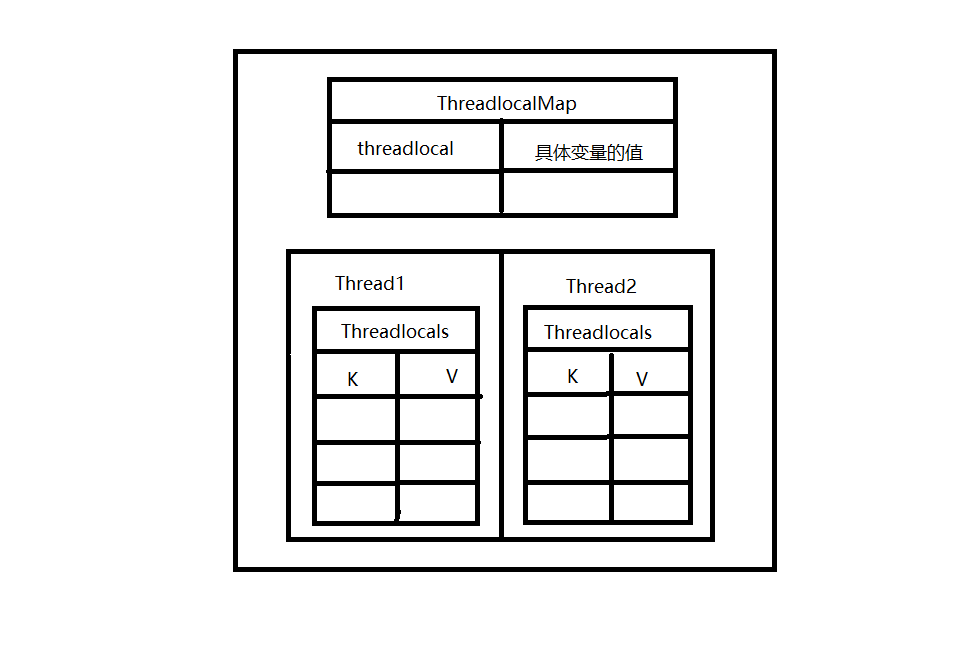
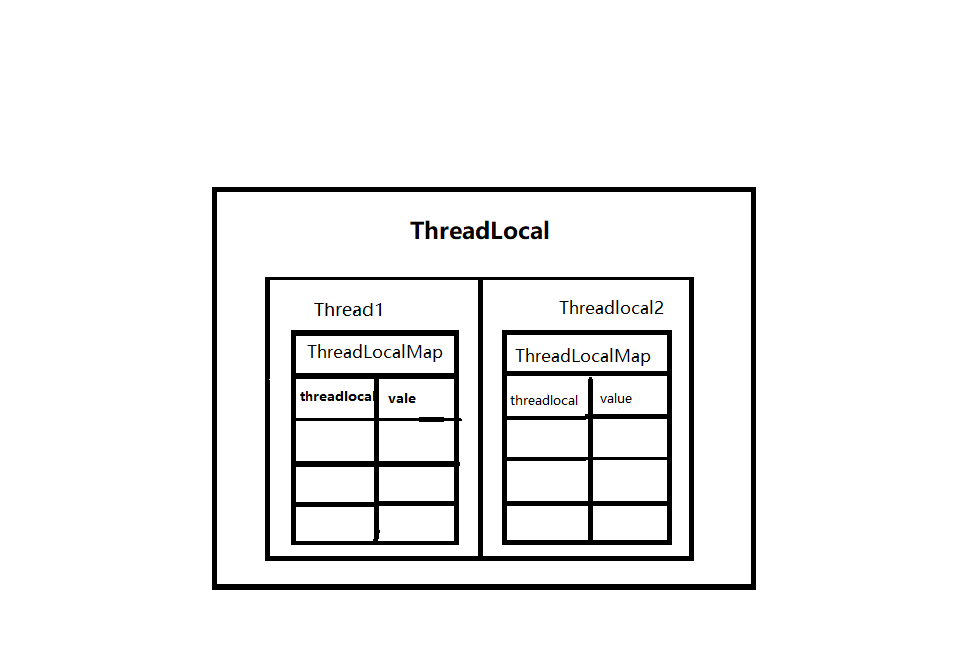
代理

Changed region(s): [[0.2169, 0.0616, 0.8058, 0.9245]]

diff --git a/专业课/2020届秋招面试题总结-JAVA基础篇.md b/专业课/2020届秋招面试题总结-JAVA基础篇.md
@@ -525,6 +525,25 @@ public void set(T value) {
     }
 ```
 
+从set方法我们可以看到，首先获取到了当前线程t，然后调用getMap获取ThreadLocalMap，如果map存在，则将当前线程对象t作为key，要存储的对象作为value存到map里面去。如果该Map不存在，则初始化一个。
+
+```java
+static class ThreadLocalMap {
+        static class Entry extends WeakReference<ThreadLocal<?>> {
+            /** The value associated with this ThreadLocal. */
+            Object value;
+
+            Entry(ThreadLocal<?> k, Object v) {
+                super(k);
+                value = v;
+            }
+        }
+        ......
+}
+```
+
+我们可以看到ThreadLocalMap其实就是ThreadLocal的一个静态内部类，里面定义了一个Entry来保存数据，而且还是继承的弱引用。在Entry内部使用ThreadLocal作为key，使用我们设置的value作为value
+
 ```java
 public T get() {
         Thread t = Thread.currentThread();
@@ -541,6 +560,8 @@ public T get() {
     }
 ```
 
+首先获取当前线程，然后调用getMap方法获取一个ThreadLocalMap，如果map不为null，那就使用当前线程作为ThreadLocalMap的Entry的键，然后值就作为相应的的值，如果没有那就设置一个初始值。
+
 ```java
 public void remove() {
          ThreadLocalMap m = getMap(Thread.currentThread());
@@ -548,9 +569,28 @@ public void remove() {
              m.remove(this);
      }
 ```
-（4）内存泄漏问题
+remove方法用于移除threadlocalmap中的对象
 
-（5）threadlocal在父子线程之间是不可以集成的
+（4）内存泄漏问题
+我们知道在thread里面维护着threadlocalMap，ThreadLocalMap的key是ThreadLocal，值是我们自己设定的。由于threadlocal是一个弱引用，那么当threadlocal被设置成null的时候，GC就会在执行内存回收的时候将threadlocalmap中的可以、回收。由于threadlocalMap的生命周期和它所属的thread是一样的，那么它就不会被回收，就会出现threadlocalMap键为空但是值还存在的情况，就会造成内存泄漏。
+
+解决办法：使用完ThreadLocal后，执行remove操作，避免出现内存泄漏情况。
+
+#### 总结
+
+（1）每个Thread维护着一个ThreadLocalMap的引用
+
+（2）ThreadLocalMap是ThreadLocal的内部类，用Entry来进行存储
+
+（3）ThreadLocal创建的副本是存储在自己的threadLocals中的，也就是自己的ThreadLocalMap。
+
+（4）ThreadLocalMap的键值为ThreadLocal对象，而且可以有多个threadLocal变量，因此保存在map中
+
+（5）在进行get之前，必须先set，否则会报空指针异常，当然也可以初始化一个，但是必须重写initialValue()方法。
+
+（6）ThreadLocal本身并不存储值，它只是作为一个key来让线程从ThreadLocalMap获取value。
+
+（7）threadlocal在父子线程之间是不可以继承的
 
 
 
@@ -685,3 +725,38 @@ https://blog.csdn.net/qq906627950/article/details/81324825
 
 
 ### java动态代理
+1. 代理模式三要素：
+- 公共接口：提供了实际对象和代理对象的公共方法接口。
+- 实际类：最终被引用的对象，提供实际的服务。
+- 代理类：代理类与实际类存在关联关系，保存实际对象的引用，代理类主要负责为委托类预处理消息、过滤消息、把消息转发给委托类，以及事后处理消息等。
+- 如图：
+![代理模式](images/4.jpg)
+
+2. 静态代理
+- 在编译时就已经确定了接口、被代理类和代理类。
+- 代理是固定的，修改比较麻烦。
+3. 动态代理
+   
+（1）基于JDK的动态代理（持有包装对象的方式）
+
+- Proxy类
+    - 作为调度器存在，调用具体的代理。
+- InvocationHandler接口
+    - 作为增强器存在，提供所需服务之外的其他服务。
+    - 只含有一个方法。在实际使用时，第一个参数obj一般是指代理类，method是被代理的方法，args为该方法的参数数组。这个抽象方法在代理类中动态实现
+    ```java
+    public object invoke(Object obj,Method method, Object[] args)
+    ```
+- 动态代理步骤：
+    - 创建一个实现接口InvocationHandler的类，它必须实现invoke方法
+    - 创建被代理的类以及接口
+    - 通过Proxy的静态方法newProxyInstance(ClassLoaderloader, Class[] interfaces, InvocationHandler h)创建一个代理。
+    - 通过代理调用方法
+（2）基于CGLIB的动态代理（继承的方式，需要导入jar包）
+- 介绍
+
+  JDK的动态代理机制只能代理实现了接口的类，而不能实现接口的类就不能实现JDK的动态代理，cglib是针对类来实现代理的，他的原理是对指定的目标类生成一个子类，并覆盖其中方法实现增强，但因为采用的是继承，所以不能对final修饰的类进行代理。
+
+### java类加载过程
+（1）类加载过程
+![类加载过程](images/4.png)
